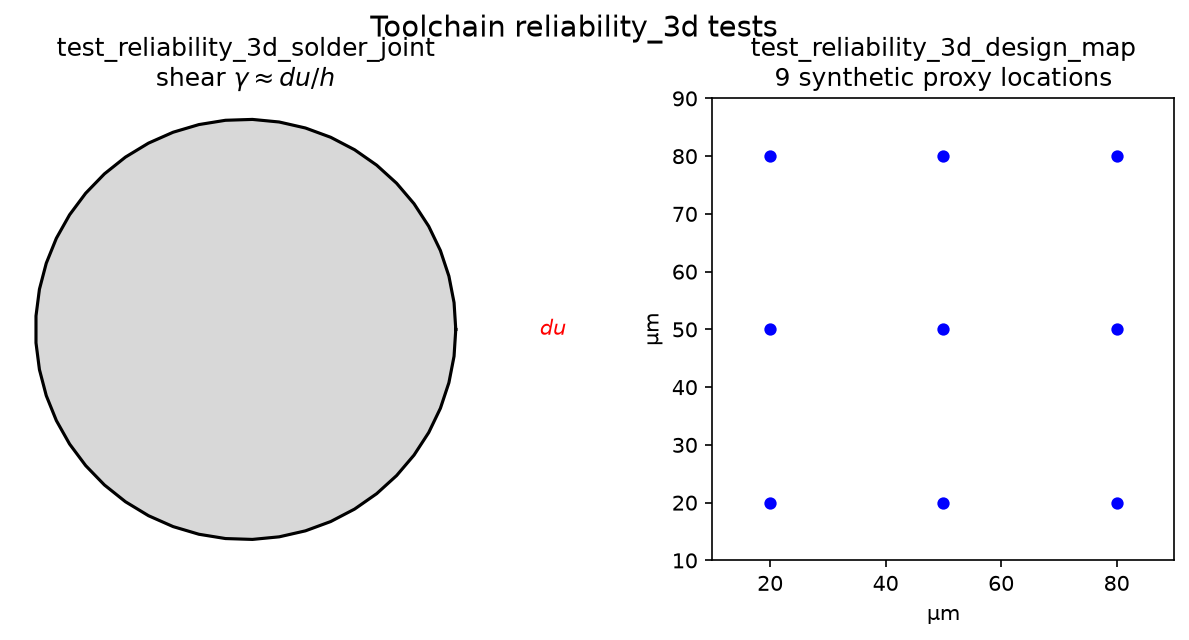
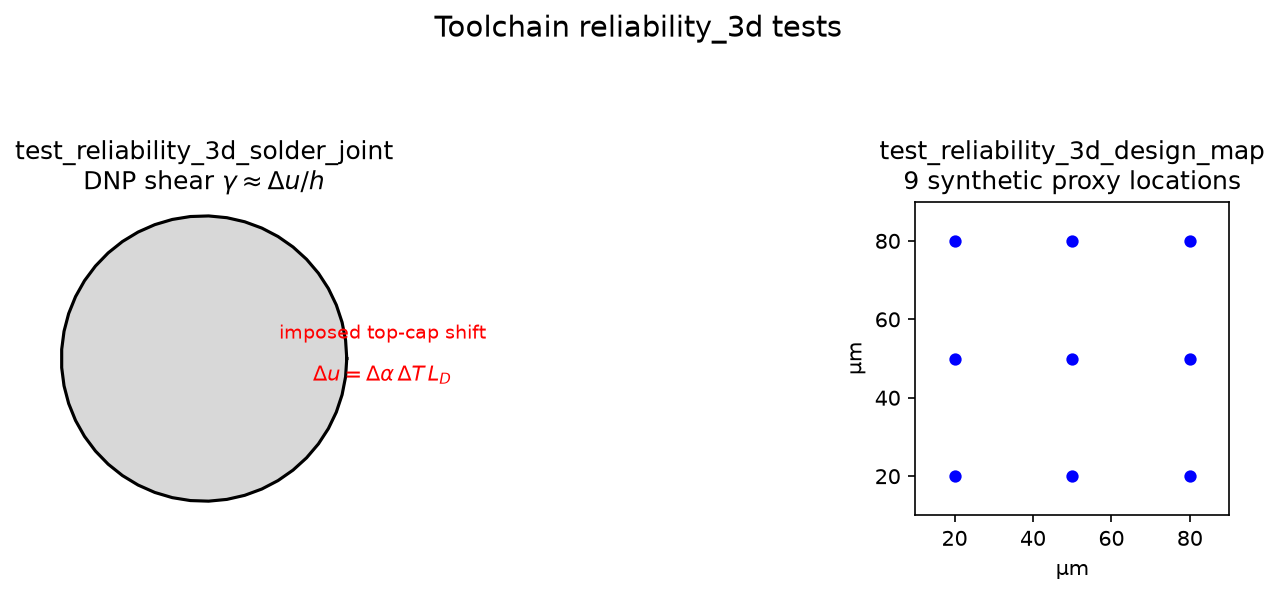
Clarify validation figure annotations

diff --git a/docs/validation_guide/generate_figures.py b/docs/validation_guide/generate_figures.py
@@ -3,6 +3,9 @@
 Run from the repo root:
     conda activate coupfe-eda
     python docs/validation_guide/generate_figures.py
+
+For targeted regeneration and the review checklist, see
+``docs/validation_guide/README.md``.
 """
 from __future__ import annotations
 
@@ -85,7 +88,15 @@ def fig_tsv_stress():
     ax.set_title("TSV geometry")
     ax.set_xlabel("$r$")
     ax.set_ylabel("$r$")
-    ax.annotate("traction-free", xy=(1.05, 0), fontsize=9)
+    ax.annotate(
+        "traction-free",
+        xy=(1.05, 0),
+        ha="center",
+        va="center",
+        rotation=90,
+        rotation_mode="anchor",
+        fontsize=9,
+    )
     ax.annotate("Cu/Si mismatch\n$\\Delta T$", xy=(0, 0), ha="center", va="center", fontsize=9)
 
     ax = axes[1]
@@ -471,11 +482,13 @@ def fig_toolchain_reliability():
     theta = np.linspace(0, 2 * np.pi, 50)
     ax.plot(np.cos(theta), np.sin(theta), "k-")
     ax.fill(np.cos(theta), np.sin(theta), color="gray", alpha=0.3)
-    ax.annotate("", xy=(1.2, 0.3), xytext=(1.2, -0.3),
+    ax.annotate("", xy=(1.45, 0), xytext=(1.05, 0),
                 arrowprops=dict(arrowstyle="->", color="red", lw=2))
-    ax.text(1.4, 0, "$du$", color="red", va="center")
+    ax.text(1.25, 0.14, "imposed top-cap shift", color="red", ha="center", fontsize=9)
+    ax.text(1.25, -0.16, "$\\Delta u = \\Delta \\alpha\\,\\Delta T\\,L_D$",
+            color="red", ha="center", fontsize=10)
     ax.set_aspect("equal")
-    ax.set_title("test_reliability_3d_solder_joint\nshear $\\gamma \\approx du/h$")
+    ax.set_title("test_reliability_3d_solder_joint\nDNP shear $\\gamma \\approx \\Delta u/h$")
     ax.axis("off")
 
     ax = axes[1]
@@ -489,7 +502,11 @@ def fig_toolchain_reliability():
     ax.set_xlabel("µm")
     ax.set_ylabel("µm")
 
-    fig.suptitle("Toolchain reliability_3d tests", fontsize=14, y=1.02)
+    # Reserve a distinct top band so the two-line panel titles do not crowd the
+    # figure title.  ``tight_layout`` also keeps the shift/equation annotation
+    # inside the left panel without pushing it into the design-map panel.
+    fig.suptitle("Toolchain reliability_3d tests", fontsize=14, y=0.98)
+    fig.tight_layout(rect=(0, 0, 1, 0.90), w_pad=2.0)
     save(fig, "toolchain_reliability.png")
 
 

diff --git a/.github/scripts/check_release_artifacts.py b/.github/scripts/check_release_artifacts.py
@@ -237,6 +237,7 @@ PUBLIC_DOC_FILES = PUBLIC_HISTORY_FILES | {
     }
 } | {
     "docs/validation_guide/generate_figures.py",
+    "docs/validation_guide/README.md",
 }
 PUBLIC_EXAMPLE_FILES = {
     "examples/REFERENCES.md",

diff --git a/docs/validation_guide/README.md b/docs/validation_guide/README.md
@@ -1,0 +1,132 @@
+# Validation-guide figure maintenance
+
+The PNG files in `figures/` are retained, project-authored documentation
+artifacts. Their source of truth is `generate_figures.py`; edits should be made
+in the generator and then reproduced, rather than applied directly to a PNG.
+These figures summarize named checks. They do not add evidence or broaden the
+qualification boundary of the underlying code, tests, or retained results.
+
+## Symbols in the reliability schematic
+
+The reliability figure uses $\Delta u$ for the imposed lateral displacement of
+the solder joint's top cap relative to its fixed bottom cap. It is not a
+derivative. In the distance-to-neutral-point (DNP) approximation,
+
+$$
+\Delta u = \Delta\alpha\,\Delta T\,L_D,
+\qquad
+\gamma \approx \frac{\Delta u}{h}.
+$$
+
+Here $\Delta\alpha$ is the die/substrate coefficient-of-thermal-expansion
+mismatch, $\Delta T$ is the temperature change, $L_D$ is the joint's distance
+from the neutral point, and $h$ is the joint height. This is the same loading
+implemented by `reliability_3d.solve_solder_joint` and checked by
+`test_reliability_3d_solder_joint`. The public equations and scope are recorded
+in [Theory](../theory.md) and
+[`reliability_3d.py`](../../eda_multiphysics/reliability_3d.py).
+
+The `traction-free` annotation in the TSV schematic marks the outer radial
+surface of the idealized reference geometry. It is drawn vertically beside
+that surface so it remains associated with the boundary without entering the
+neighboring stress plot.
+
+## Regeneration process
+
+Run commands from the repository root. Regenerate only an edited figure during
+review so unrelated retained PNGs do not change because of a local Matplotlib
+or font difference:
+
+```bash
+python -c 'from docs.validation_guide.generate_figures import fig_tsv_stress; fig_tsv_stress()'
+python -c 'from docs.validation_guide.generate_figures import fig_toolchain_reliability; fig_toolchain_reliability()'
+```
+
+To intentionally regenerate the complete set:
+
+```bash
+python docs/validation_guide/generate_figures.py
+```
+
+Record the Python, Matplotlib, and font environment when a broad regeneration
+is intended. PNG bytes can change across rendering environments even when the
+plotting code and numerical content do not.
+
+## Review and website flow
+
+After regeneration:
+
+1. Inspect each changed PNG at full resolution. Check the global title, panel
+   titles, labels, equations, panel gutter, and plot bounds for overlap or
+   clipping.
+2. Confirm that schematic equations and boundary labels agree with the code,
+   tests, and `docs/theory.md`. A presentation edit must not silently change a
+   model definition or evidence claim.
+3. Review the targeted source and image diff, then run the whitespace check:
+
+   ```bash
+   git diff -- docs/validation_guide/generate_figures.py docs/validation_guide/figures
+   git diff --check
+   ```
+
+4. From `web/`, run `npm run prepare:data`. This checks every linked source and
+   copies the selected retained figures to the generated
+   `public/repository-assets/validation-guide/` directory.
+5. Run `npm run check` to exercise repository-data checks, frontend tests, type
+   checking, and the production website build. Inspect the built page at both
+   desktop and narrow viewport widths when figure dimensions or captions
+   change.
+
+The generated website copies are ignored build products. Commit the generator,
+the reviewed PNGs under `docs/validation_guide/figures/`, and any changed public
+caption or maintenance documentation; do not commit the copied web assets.
+
+## Layout correction record: 2026-08-02
+
+This update began with a visual review of the two retained PNGs and then traced
+their labels back through the plotting source, implementation, tests, and
+theory before changing presentation:
+
+- In `tsv_stress.png`, the horizontal `traction-free` label crossed the panel
+  gutter and overlapped the neighboring stress plot's vertical axis label. The
+  annotation was rotated vertically and centered beside the outer surface.
+- In `toolchain_reliability.png`, the global title and the two-line panel titles
+  occupied the same top band. A separate top layout band was reserved so both
+  panels and their subtitles begin below the global title.
+- The reliability schematic's plain `du` was traced to the imposed top-cap
+  displacement in `solve_solder_joint` and its toolchain regression. It was
+  relabeled as $\Delta u$, its DNP equation was added, and the loading arrow was
+  made horizontal to match the implemented x-direction shift.
+- The website caption was changed to identify the same DNP relation. No solver
+  source, numerical input, retained result, tolerance, test status, or evidence
+  boundary changed.
+
+Only the two affected functions were regenerated, using Python 3.13.9 and
+Matplotlib 3.11.0. Their retained SHA-256 digests are:
+
+```text
+3752b89c72cd9048388408c03904055c677eaa85e97e412efe23489f2a9eaf56  tsv_stress.png
+ff67bdf07114bba2b57933b5e4bfc98f092780c7a7ac3ad3cf28e46edfbe39b1  toolchain_reliability.png
+```
+
+Both PNGs were inspected at full resolution for title, equation, gutter, and
+boundary-label clearance. `npm run check` then passed 35 frontend tests,
+repository-data validation, type checking, asset preparation, and the
+production demo build. The prepared website copies had the same SHA-256
+digests as the retained source PNGs.
+
+A first unpinned `python -m pytest -q` attempt found an older installed Core
+package and stopped during collection because that package did not contain
+`coupfe.constraints`. Repeating the command with `PYTHONPATH` set to the
+documented public Core checkout at
+`e2f42ed5772850a0a23a2ce434f430c287eae5c8` passed 122 tests, skipped one, and
+deselected 20 optional toolchain tests. This distinction is retained because
+dependency identity is part of the evidence, even though the initial failure
+was not an EDA test failure.
+
+A temporary wheel and source distribution were also built. The artifact guard
+checked the 262-file source inventory, 77-file wheel, and 270-file source
+distribution, including this maintenance record and the regenerated figures.
+The check used the explicit dirty/untracked audit allowances because it ran
+before the edits were committed, so it was a packaging review rather than a
+release checkpoint. The temporary artifacts were removed after the check.

diff --git a/docs/VALIDATION_GUIDE.md b/docs/VALIDATION_GUIDE.md
@@ -5,6 +5,11 @@ results. A successful test supports the named equation, implementation path,
 inputs, mesh, and tolerance. It does not qualify a different device, process,
 or signoff use.
 
+The project-authored summary PNGs are reproducible from their plotting source.
+See [validation-guide figure maintenance](validation_guide/README.md) for the
+symbol definitions, targeted regeneration commands, visual review checklist,
+and website asset flow.
+
 ## Evidence classes
 
 | Class | Meaning | Examples |
